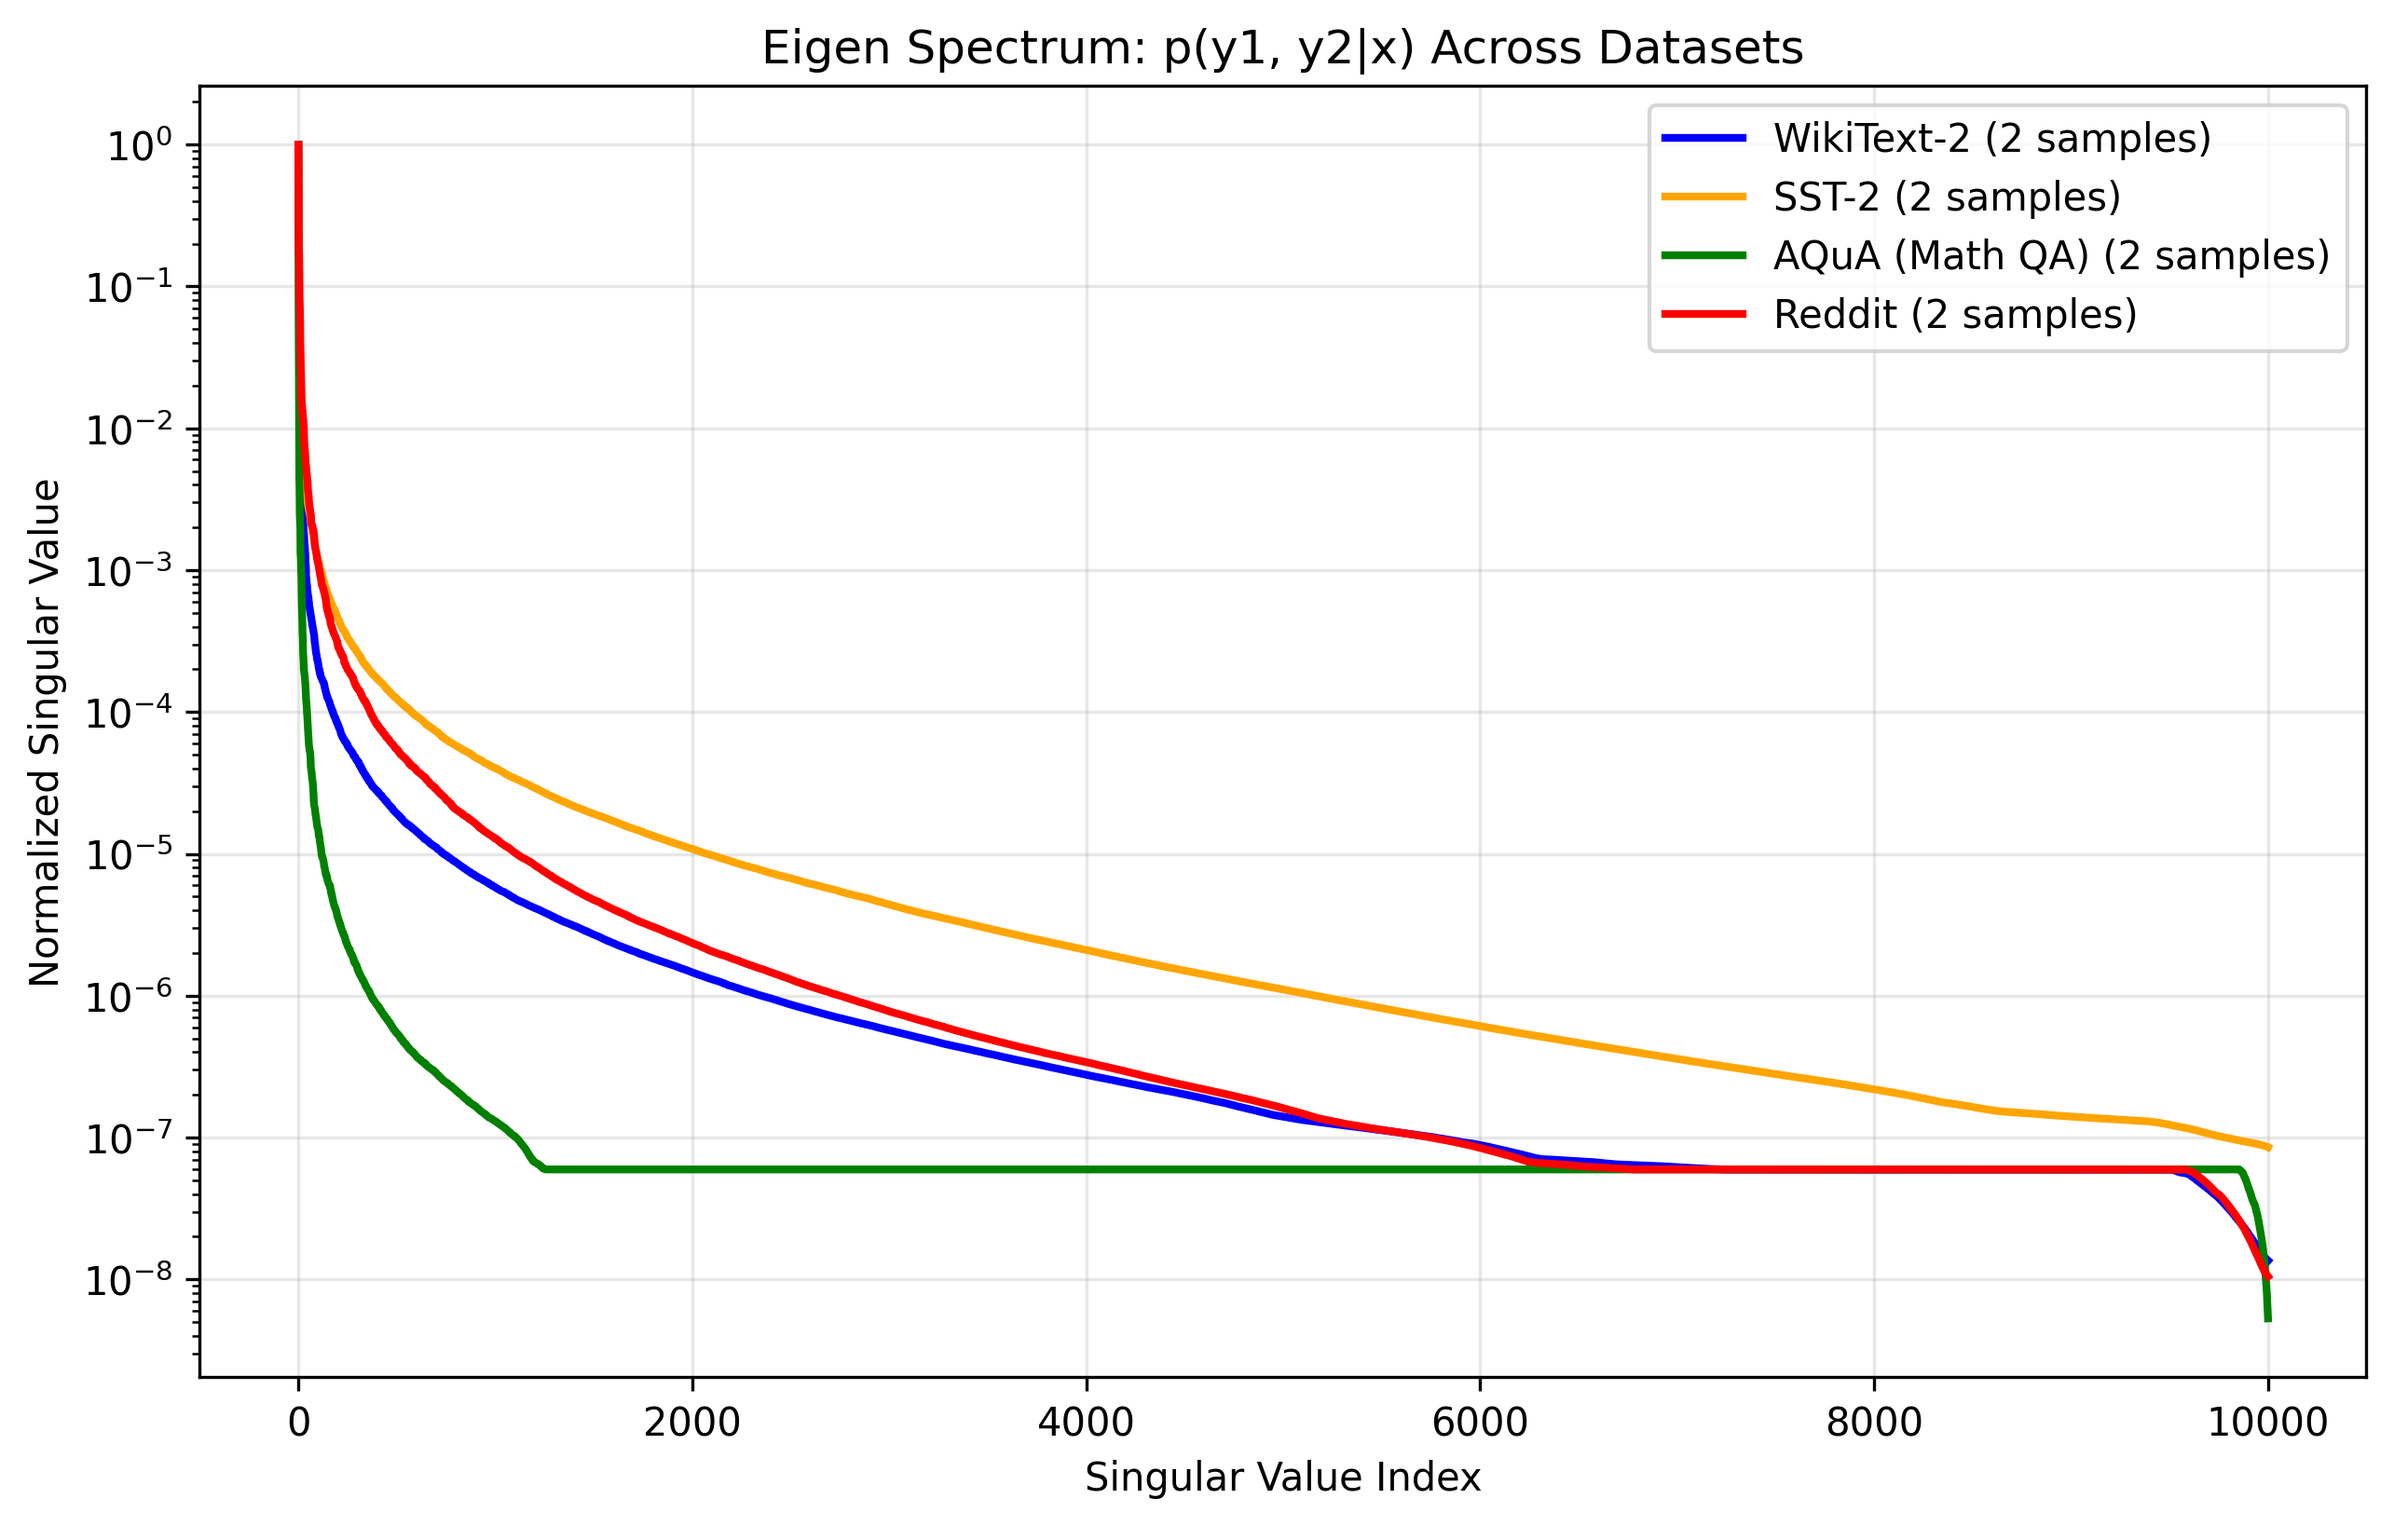
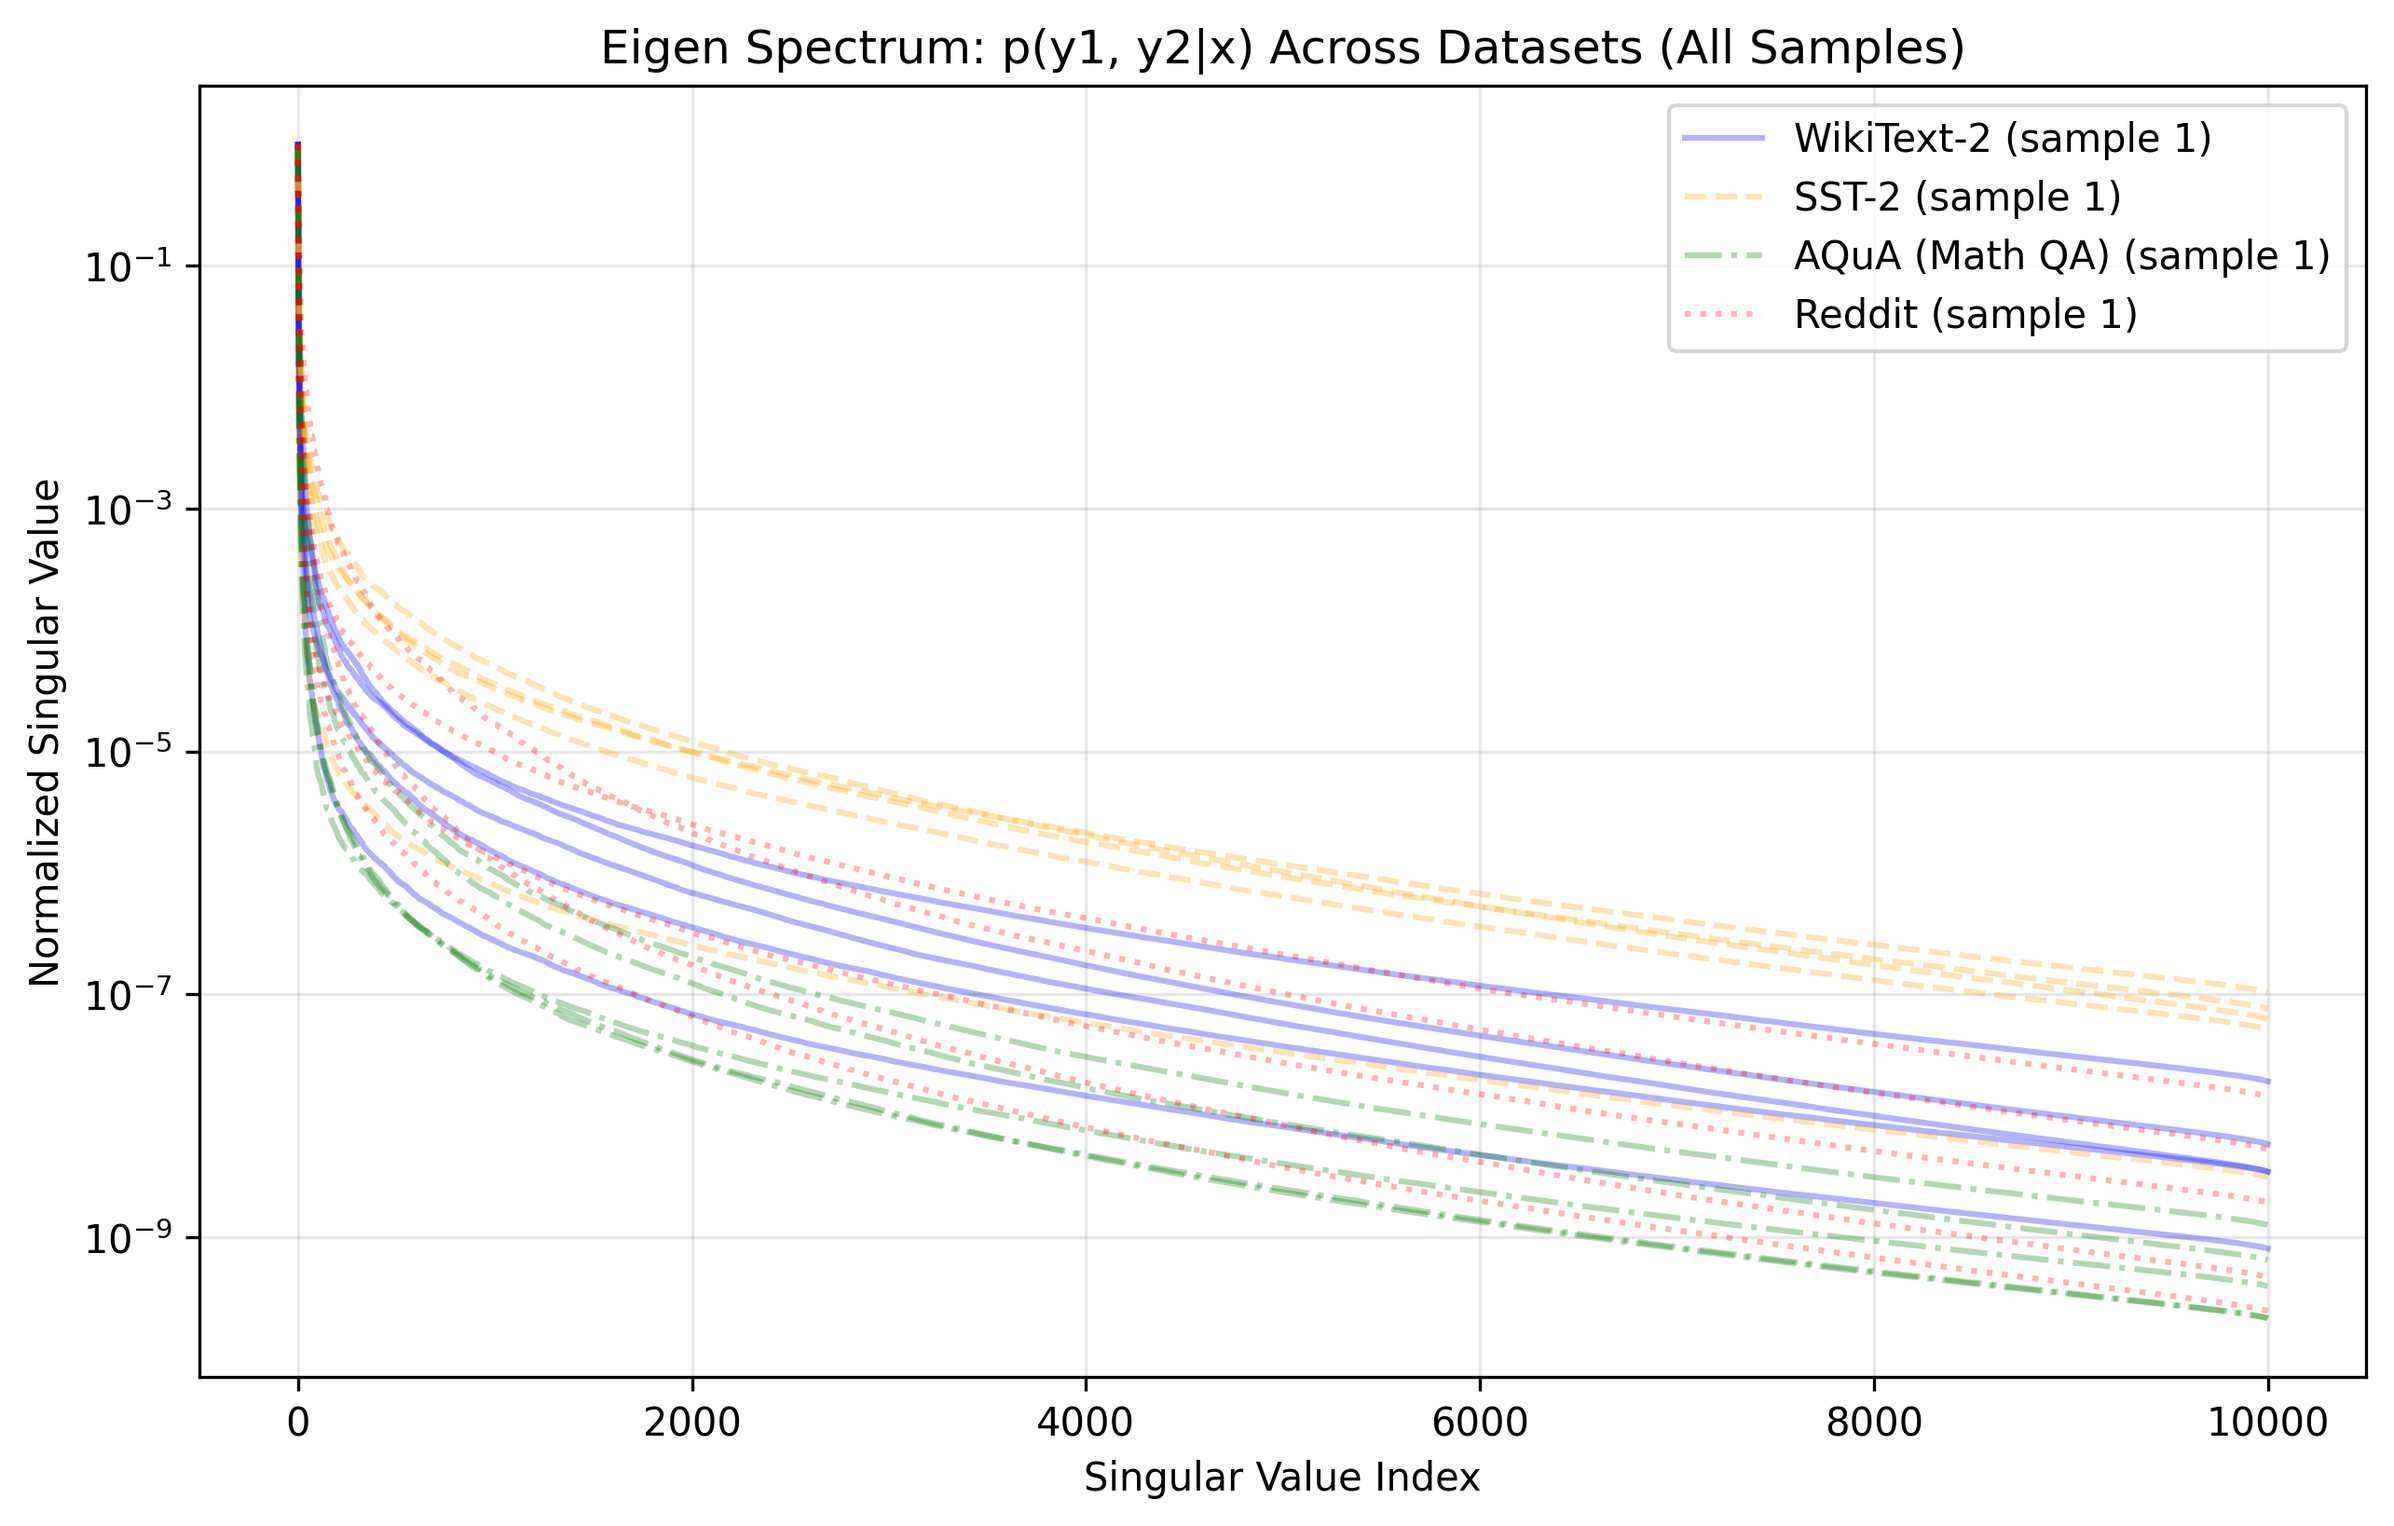
Update ds rank plotting script
- Also update data dir

diff --git a/scripts/plot_dataset_rank_simple.py b/scripts/plot_dataset_rank_simple.py
@@ -231,8 +231,10 @@ def main():
                 # Compute spectrum
                 p_y1y2 = get_joint_prob(model, tokenizer, text, args.device)
                 print(f"p_y1y2.shape: {p_y1y2.shape}")
+                # Use minimum dimension to get all singular values
+                n_components = min(p_y1y2.shape)
                 _, spectrum, _ = randomized_svd(
-                    p_y1y2.cpu().numpy(), n_components=10000, random_state=42
+                    p_y1y2.cpu().numpy(), n_components=n_components, random_state=42
                 )
                 spectra[category].append(torch.tensor(spectrum))
                 print(f"{category} [{i+1}/{len(samples)}]: {spectrum[:3]}...")
@@ -256,7 +258,7 @@ def main():
                 spectrum = spectrum.cpu()
                 cumsum = torch.cumsum(spectrum**2, 0)
                 total = (spectrum**2).sum()
-                rank = (cumsum / total < var_target).sum().item() + 1
+                rank = ((cumsum / total) < var_target).sum().item() + 1
                 ranks.append(rank)
             mean_rank = np.mean(ranks)
             std_rank = np.std(ranks)
